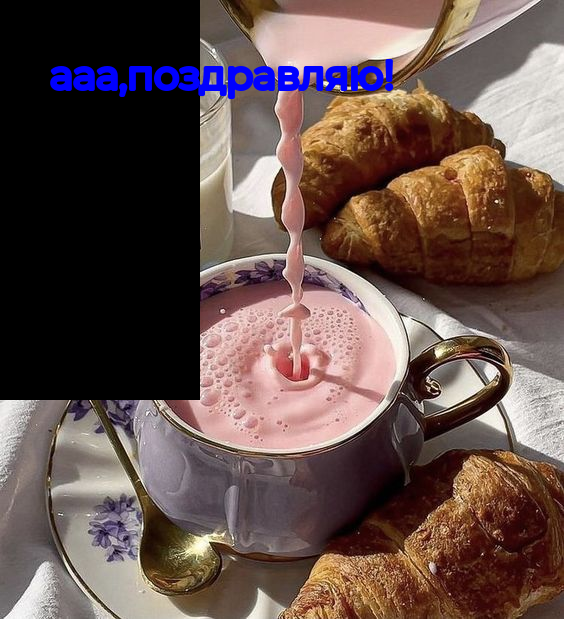
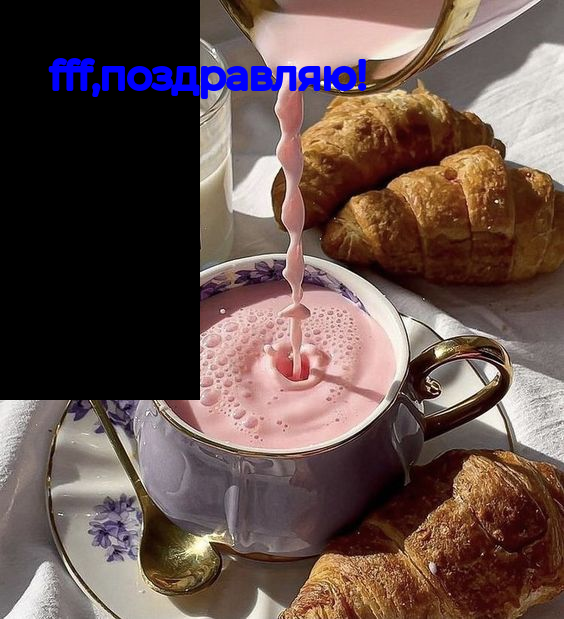
8

Changed region(s): [[0.0904, 0.0921, 0.7234, 0.1842]]

diff --git a/lab8/3.py b/lab8/3.py
@@ -1,6 +1,6 @@
 from PIL import Image,ImageDraw,ImageFont
 import numpy as np
-from termcolor import colored
+
 
 img = Image.open('picture.jpg')
 img_arr = np.array(img) #Изображения преобразуются в массив Numpy в формате высоты, ширины, канала.
@@ -8,6 +8,8 @@ img_arr = np.array(img) #Изображения преобразуются в м
 img_arr[0: 400, 0: 200] = (0, 0, 0) #мы удалили бы пиксели в области от (0,0) до (400, 200) (верхняя левая сторона)
 img = Image.fromarray(img_arr) #создает изображение в памяти из объекта obj
 name=input('Кого вы хотите поздравить? ')
+w=564
+h=619
 draw_text = ImageDraw.Draw(img) #изображения для рисования
 myFont = ImageFont.truetype('Montserrat-Regular.ttf', 40) # подключаем шрифт
 draw_text.text(
